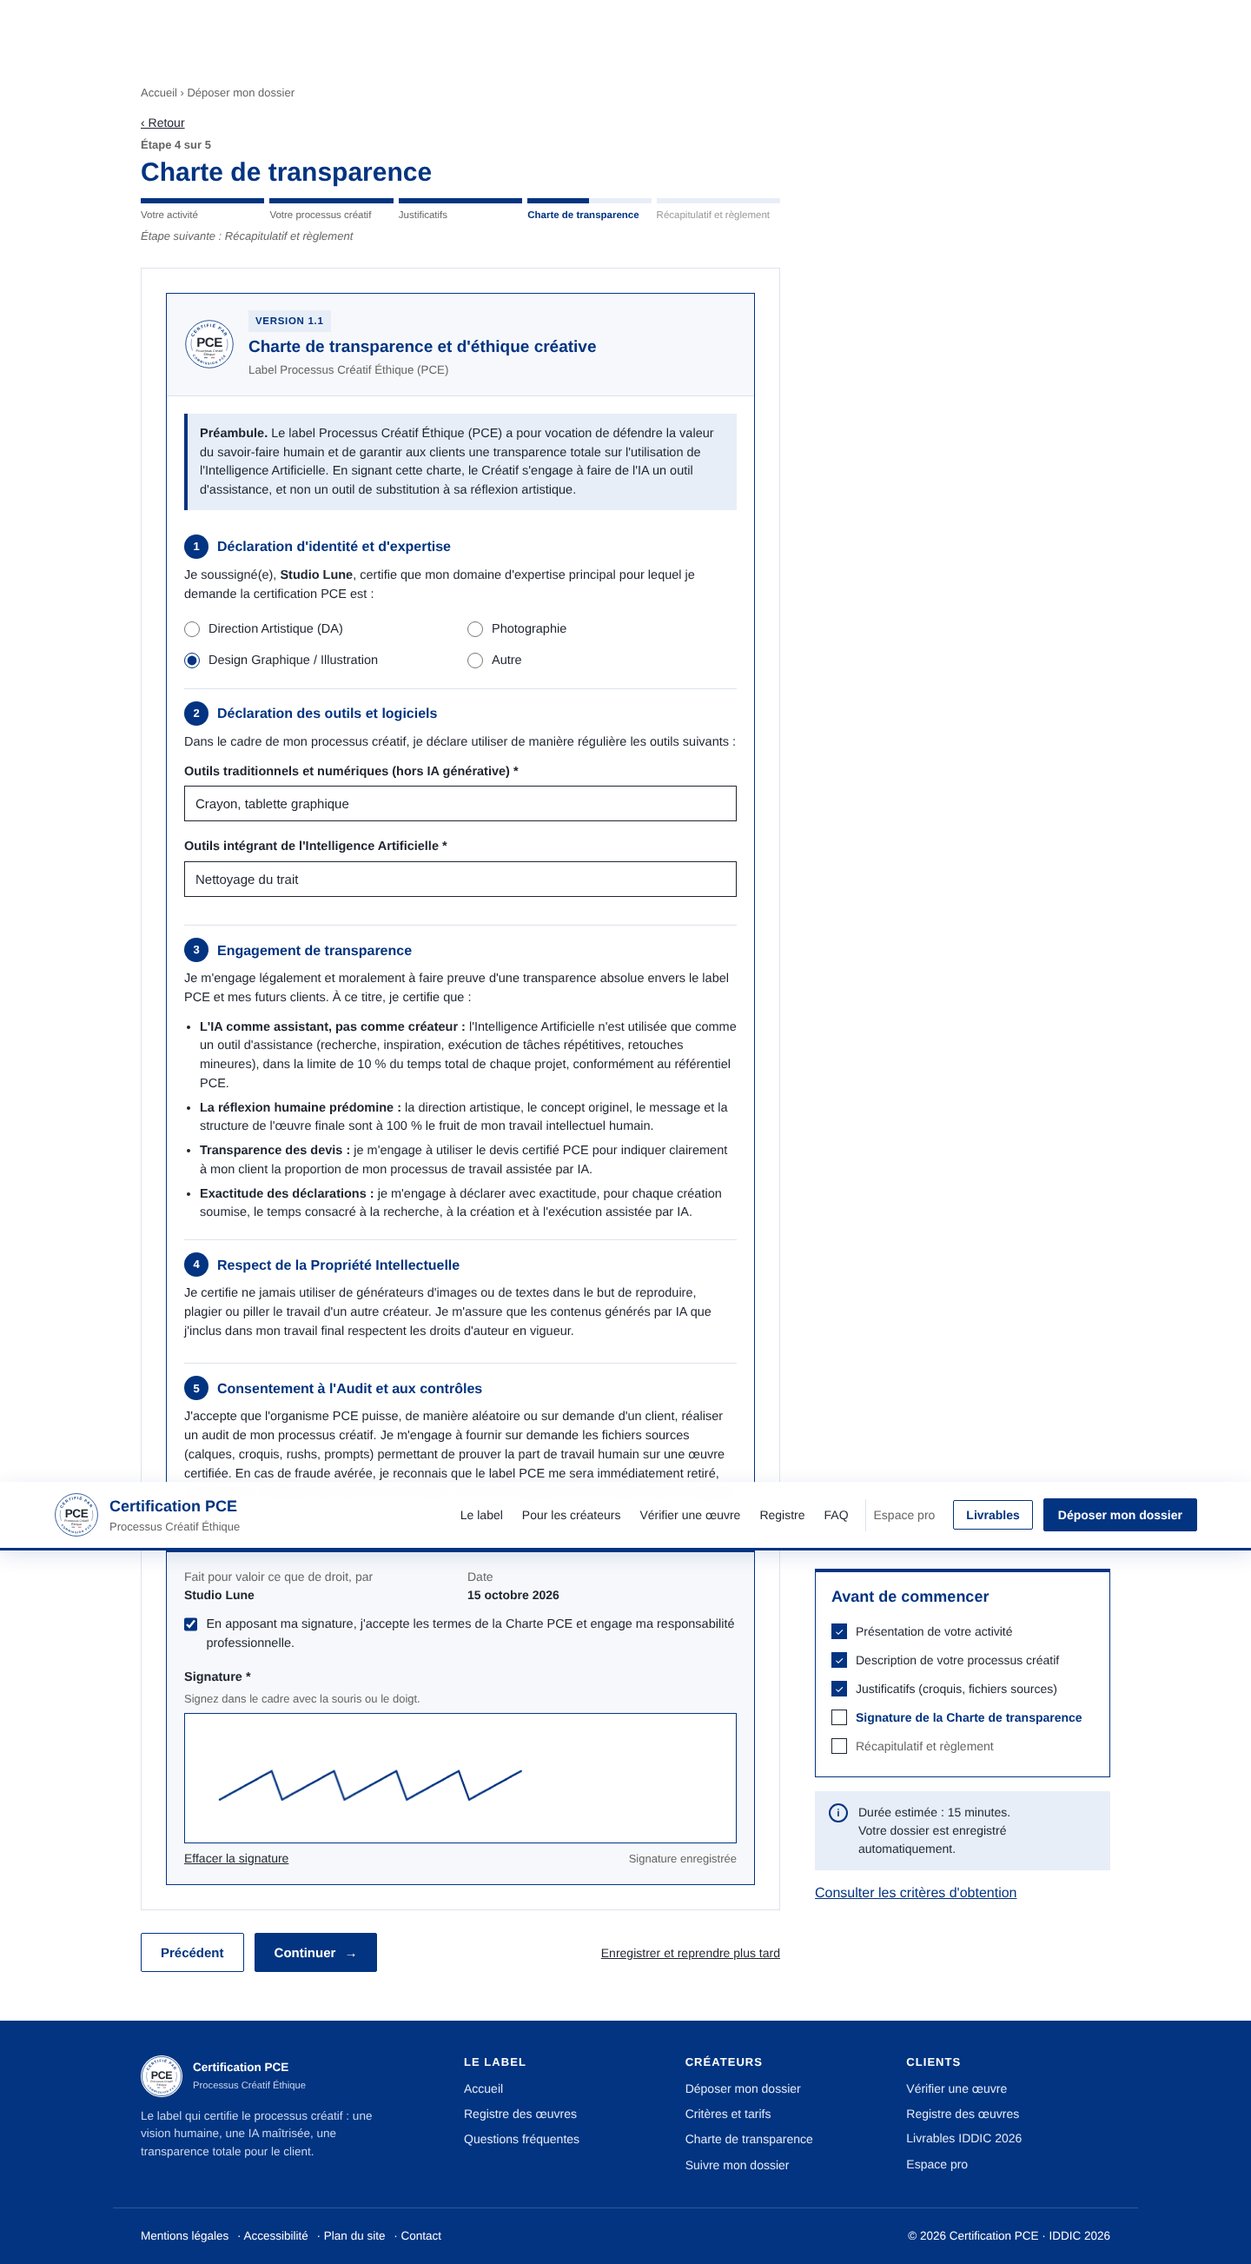
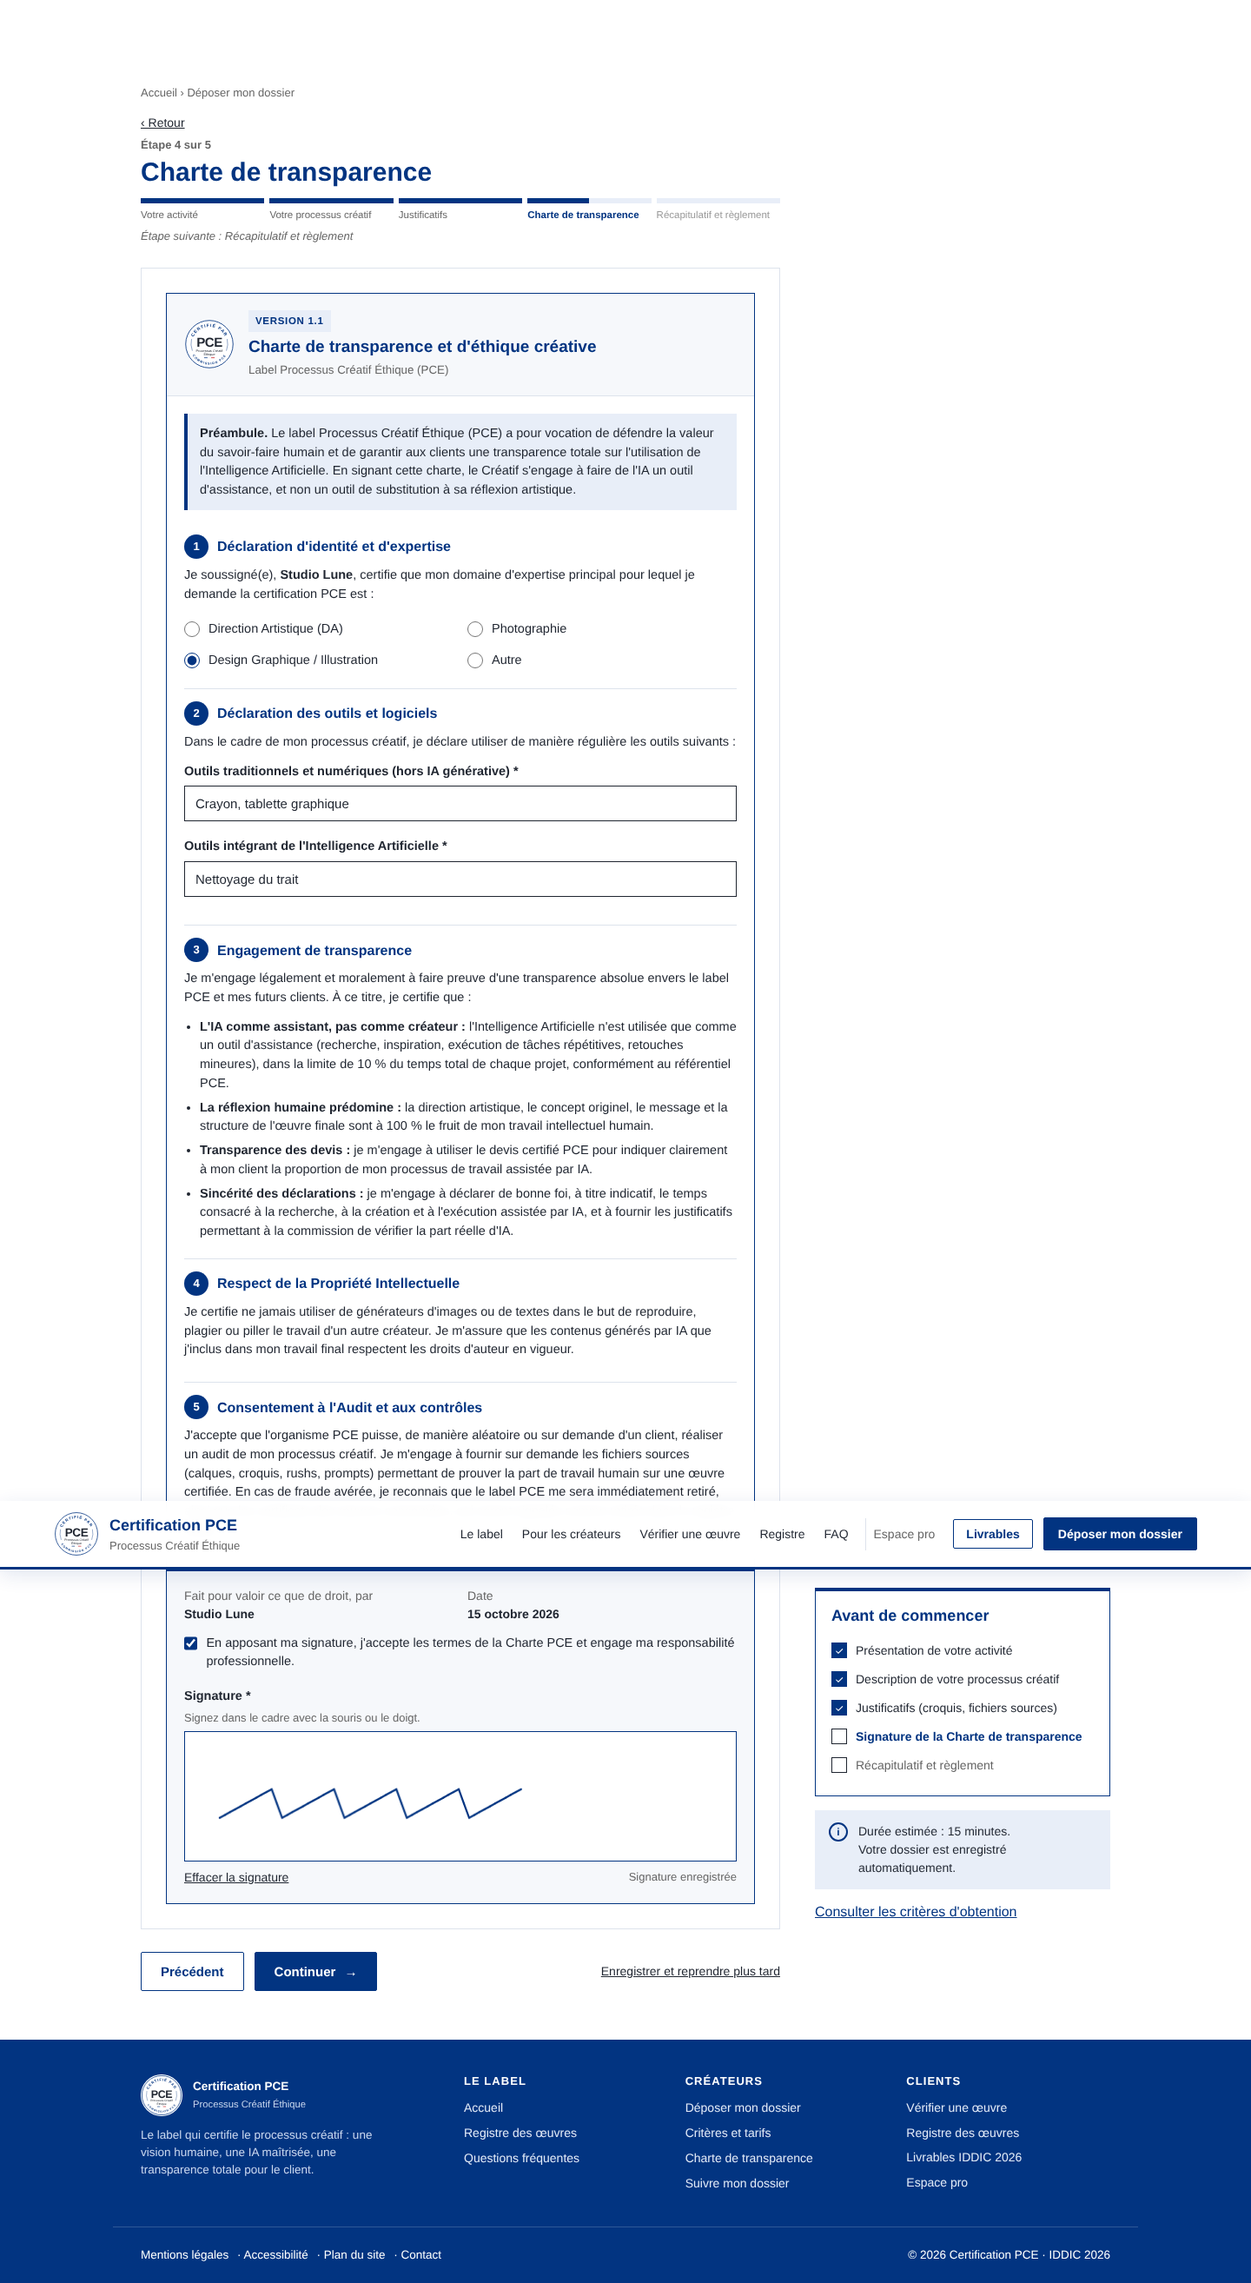
Heures déclarées indicatives : plus de détection automatique d'IA, vérification par la commission
Claude-Session: https://claude.ai/code/session_013D7uRxLFz2dHeA6eheZQbo

diff --git a/livrable/Prototype_PCE.html b/livrable/Prototype_PCE.html
@@ -182,6 +182,7 @@ input[type=radio], input[type=checkbox] { width: 18px; height: 18px; accent-colo
 .verdict { margin-top: 12px; padding: 12px 14px; font-size: 14px; border-left: 4px solid; transition: background .3s, border-color .3s; }
 .verdict.ok { background: var(--vert-p); border-color: var(--vert); color: #0E4F27; }
 .verdict.ko { background: var(--rouge-p); border-color: var(--rouge); color: #8A1014; }
+.verdict.info { background: var(--pale); border-color: var(--marine); color: var(--encre); }
 table.devis { width: 100%; border-collapse: collapse; font-size: 14.5px; margin-top: 8px; }
 table.devis td, table.devis th { padding: 10px 6px; border-bottom: 1px solid var(--trait-c); text-align: left; }
 table.devis td:last-child, table.devis th:last-child { text-align: right; }
@@ -2865,7 +2866,7 @@ function seedBase() {
       formule: r() < .7 ? "abonnement" : "unite", seed: 1 + Math.floor(r() * 100000), img: null,
       ...((tl, nb) => ({ taille: tl, creationsAn: nb, prixAbo: estimerAbo(tl, nb, rech + crea + ia).mensuel ?? null }))(["Indépendant", "Indépendant", "Indépendant", "Studio (2 à 10 personnes)", "Agence (11 à 50 personnes)"][Math.floor(r() * 5)], 3 + Math.floor(r() * 40)),
       justificatifs: ["croquis-preparatoires.pdf", "fichier-source.psd"].slice(0, 1 + Math.floor(r() * 2)),
-      motif: st === "refusee" ? "Part d'exécution par IA supérieure au seuil du référentiel." : "",
+      motif: st === "refusee" ? "Après examen des justificatifs, la part d'exécution par IA dépasse le seuil du référentiel." : "",
       charte: { expertise: expertiseDefaut(type), expertiseAutre: type === "Tatouage" ? "Tatouage" : "", outilsTrad: "Crayon, carnet de croquis, tablette graphique, logiciel de retouche", outilsIA: iaMode === "aucun" ? "Aucun" : "Assistant de recherche, retouche assistée", signature: null, signeLe: new Date(2026, mois, jour).toISOString() },
     });
   }
@@ -2991,7 +2992,7 @@ function vueCreateurs() {
     <div class="grille4">
       <div class="carte rev"><h3><span class="pastille">1</span>Processus documenté</h3><p>Recherches, croquis, versions successives, choix de style.</p></div>
       <div class="carte rev"><h3><span class="pastille">2</span>Conception humaine</h3><p>L'intention, la composition et les choix artistiques sont les vôtres.</p></div>
-      <div class="carte rev"><h3><span class="pastille">3</span>IA en exécution</h3><p>L'exécution assistée par IA représente ${SEUIL} % maximum du temps du projet.</p></div>
+      <div class="carte rev"><h3><span class="pastille">3</span>IA en exécution</h3><p>L'exécution assistée par IA représente ${SEUIL} % maximum du projet. La commission le vérifie sur vos justificatifs.</p></div>
       <div class="carte rev"><h3><span class="pastille">4</span>Justificatifs</h3><p>Croquis, fichiers sources ou étapes intermédiaires, au format PDF, JPG ou PNG.</p></div>
     </div>
     <h2 style="margin-top:44px">Tarifs</h2>
@@ -3041,6 +3042,7 @@ function vueFaq() {
     ["Combien coûte la certification ?", "L'abonnement est sur mesure, à partir de 9 € HT par mois pour un indépendant. Son tarif dépend du nombre de créations à certifier, de la taille de la structure, de l'ampleur du processus créatif et de l'étude du dossier. La certification à l'unité dépend de l'œuvre, de 25 € à 149 € HT. La vérification est gratuite."],
     ["Comment un acheteur vérifie-t-il une œuvre ?", "En scannant le QR code apposé sur l'œuvre ou en saisissant le numéro PCE sur la page Vérifier une certification."],
     ["Pourquoi signer la Charte de transparence ?", "La charte engage le créateur sur l'usage de l'IA, la transparence des devis, le respect de la propriété intellectuelle et l'acceptation des audits. Sa signature est obligatoire pour déposer un dossier."],
+    ["Les heures déclarées suffisent-elles à obtenir le label ?", "Non. Les heures sont indicatives : elles servent au devis client et à l'estimation de l'abonnement. La part réelle d'IA est vérifiée par la commission sur les justificatifs (croquis, fichiers sources, calques, prompts)."],
     ["Que se passe-t-il en cas de refus ?", "Le motif vous est communiqué. Vous pouvez compléter votre dossier et le déposer à nouveau."],
   ];
   return `<div class="conteneur etroit">${ariane("FAQ")}<h1>Questions fréquentes</h1>${q.map(([a, b]) => `<details class="rev"><summary>${a}</summary><p>${b}</p></details>`).join("")}<div style="height:56px"></div></div>`;
@@ -3199,7 +3201,7 @@ function etape2(b) {
   return champ("titre", "Titre de l'œuvre *", `<input id="titre" type="text" value="${esc(b.titre)}">`)
     + champ("description", "Décrivez votre processus, de l'idée au rendu *", `<textarea id="description" placeholder="Ex : recherches, croquis, choix de style, versions successives, outils utilisés…">${esc(b.description)}</textarea>`, "", "Décrivez votre processus en 40 caractères minimum.")
     + `<div class="champ"><span class="lab">Recours à l'IA dans votre travail *</span><div class="radios">${Object.entries(IA_LIB).map(([k, v]) => `<label><input type="radio" name="iaMode" value="${k}" ${b.iaMode === k ? "checked" : ""}> ${v}</label>`).join("")}</div></div>
-    <div class="champ"><span class="lab">Temps consacré au projet (heures)</span>
+    <div class="champ"><span class="lab">Temps consacré au projet (heures, à titre indicatif)</span><span class="aide">Ces heures servent au devis client et à l'estimation de l'abonnement. Elles ne déterminent pas la certification : la part réelle d'IA est vérifiée par la commission sur vos justificatifs.</span>
       <div class="ligne-h"><label for="recherche">Recherche et intention</label><input id="recherche" type="number" min="0" value="${b.recherche}"></div>
       <div class="ligne-h"><label for="creation">Création et direction artistique</label><input id="creation" type="number" min="0" value="${b.creation}"></div>
       <div class="ligne-h" id="l-ia"><label for="ia">Exécution assistée par IA</label><input id="ia" type="number" min="0" value="${b.ia}"></div>
@@ -3226,7 +3228,7 @@ const ARTICLES_3_5 = `
     <ul><li><b>L'IA comme assistant, pas comme créateur :</b> l'Intelligence Artificielle n'est utilisée que comme un outil d'assistance (recherche, inspiration, exécution de tâches répétitives, retouches mineures), dans la limite de ${SEUIL} % du temps total de chaque projet, conformément au référentiel PCE.</li>
     <li><b>La réflexion humaine prédomine :</b> la direction artistique, le concept originel, le message et la structure de l'œuvre finale sont à 100 % le fruit de mon travail intellectuel humain.</li>
     <li><b>Transparence des devis :</b> je m'engage à utiliser le devis certifié PCE pour indiquer clairement à mon client la proportion de mon processus de travail assistée par IA.</li>
-    <li><b>Exactitude des déclarations :</b> je m'engage à déclarer avec exactitude, pour chaque création soumise, le temps consacré à la recherche, à la création et à l'exécution assistée par IA.</li></ul></div>
+    <li><b>Sincérité des déclarations :</b> je m'engage à déclarer de bonne foi, à titre indicatif, le temps consacré à la recherche, à la création et à l'exécution assistée par IA, et à fournir les justificatifs permettant à la commission de vérifier la part réelle d'IA.</li></ul></div>
   <div class="article"><h3><span class="pastille">4</span>Respect de la Propriété Intellectuelle</h3><p>Je certifie ne jamais utiliser de générateurs d'images ou de textes dans le but de reproduire, plagier ou piller le travail d'un autre créateur. Je m'assure que les contenus générés par IA que j'inclus dans mon travail final respectent les droits d'auteur en vigueur.</p></div>
   <div class="article" style="border:none"><h3><span class="pastille">5</span>Consentement à l'Audit et aux contrôles</h3><p>J'accepte que l'organisme PCE puisse, de manière aléatoire ou sur demande d'un client, réaliser un audit de mon processus créatif. Je m'engage à fournir sur demande les fichiers sources (calques, croquis, rushs, prompts) permettant de prouver la part de travail humain sur une œuvre certifiée. En cas de fraude avérée, je reconnais que le label PCE me sera immédiatement retiré, ainsi que les certificats des œuvres concernées, qui seront signalés comme retirés dans le registre public.</p></div>`;
 const PREAMBULE = "Le label Processus Créatif Éthique (PCE) a pour vocation de défendre la valeur du savoir-faire humain et de garantir aux clients une transparence totale sur l'utilisation de l'Intelligence Artificielle. En signant cette charte, le Créatif s'engage à faire de l'IA un outil d'assistance, et non un outil de substitution à sa réflexion artistique.";
@@ -3308,9 +3310,9 @@ function etape4(b) {
     ${b.img ? `<div class="apercu"><img src="${b.img}" alt=""><div><b>${esc(b.imgNom || "Œuvre finale")}</b><br><span class="muted petit-texte">Recevra le sceau PCE et un QR code.</span></div></div>` : ""}`;
 }
 function majDosage(b) {
-  const z = $("#dos"); if (!z) return; const ia = pctIA(b), ok = ia <= SEUIL;
+  const z = $("#dos"); if (!z) return; const ia = pctIA(b);
   z.innerHTML = `<div class="barre"><span class="h" style="width:${100 - ia}%"></span><span class="ia" style="width:${ia}%"></span></div><div class="leg"><span>Humain ${100 - ia} %</span><span>Exécution IA ${ia} %</span></div>
-    <div class="verdict ${ok ? "ok" : "ko"}">${ok ? `Éligible : l'exécution assistée par IA représente ${ia} % du projet, sous le seuil de ${SEUIL} %.` : `Non éligible : l'exécution assistée par IA représente ${ia} % du projet, au-delà du seuil de ${SEUIL} %.`}</div>`;
+    <div class="verdict info">Répartition déclarée, indicative. La conformité au référentiel (IA en exécution, ${SEUIL} % maximum) est vérifiée par la commission sur vos justificatifs.</div>`;
 }
 function lireFichier(f) { return new Promise(ok => { const r = new FileReader(); r.onload = () => ok(r.result); r.readAsDataURL(f); }); }
 async function reduireImage(src, max = 1400) {
@@ -3357,7 +3359,7 @@ function initDepot() {
   const valider = () => {
     lire(); let ok = true; const err = (c, cond) => { const z = $(`[data-c="${c}"]`); if (z) z.classList.toggle("erreur", !cond); if (!cond) ok = false; };
     if (e === 0) { err("createur", b.createur.trim()); err("email", /^[^@\s]+@[^@\s]+\.[^@\s]+$/.test(b.email)); err("creationsAn", +b.creationsAn >= 1); }
-    if (e === 1) { err("titre", b.titre.trim()); err("description", b.description.trim().length >= 40); if (pctIA(b) > SEUIL) { ok = false; toast(`L'exécution assistée par IA dépasse ${SEUIL} % du projet.`); } }
+    if (e === 1) { err("titre", b.titre.trim()); err("description", b.description.trim().length >= 40); }
     if (e === 2) { err("img", b.img); err("just", b.justificatifs.length); }
     if (e === 3) { err("expertise", b.expertise && (b.expertise !== "Autre" || b.expertiseAutre.trim())); err("outilsTrad", b.outilsTrad.trim()); err("outilsIA", b.outilsIA.trim()); err("charteOk", b.charteOk); err("signature", b.signature); }
     if (!ok) { const p = $(".erreur"); if (p) { p.scrollIntoView({ behavior: "smooth", block: "center" }); const i = $("input, textarea, select", p); if (i) i.focus({ preventScroll: true }); } }
@@ -3431,9 +3433,8 @@ function initSuivi(id) {
   if ($("#dl-oeuvre")) $("#dl-oeuvre").onclick = () => oeuvreSignee(o);
   if ($("#avancer")) $("#avancer").onclick = () => {
     const suite = { deposee: "analyse", analyse: "commission", commission: "certifiee" }[o.statut];
-    const ok = pctIA(o.dosage) <= SEUIL;
-    DB.maj(o.id, suite === "certifiee" ? (ok ? { statut: "certifiee", date: new Date().toISOString() } : { statut: "refusee", motif: "Part d'exécution par IA supérieure au seuil du référentiel." }) : { statut: suite });
-    rendre(); toast(suite === "certifiee" && ok ? "Certification délivrée." : "Dossier mis à jour.");
+    DB.maj(o.id, suite === "certifiee" ? { statut: "certifiee", date: new Date().toISOString() } : { statut: suite });
+    rendre(); toast(suite === "certifiee" ? "Certification délivrée par la commission." : "Dossier mis à jour.");
   };
 }
 
@@ -3529,14 +3530,15 @@ function tiroir(id, apres) {
       <dl class="recap deux"><div><dt>Créateur</dt><dd>${esc(o.createur)}</dd><dt>E-mail</dt><dd>${esc(o.email)}</dd><dt>Ville</dt><dd>${esc(o.ville || "Non renseignée")}</dd></div><div><dt>Type</dt><dd>${esc(o.type)}</dd><dt>Formule</dt><dd>${o.formule === "abonnement" ? "Abonnement · " + (o.prixAbo ? eur(o.prixAbo) + " HT / mois" : "sur devis") : "Unité · " + eur(TYPES[o.type])}</dd><dt>Structure</dt><dd>${esc(o.taille || "Indépendant")} · ${o.creationsAn || "?"} créations par an</dd><dt>Déposé le</dt><dd>${dateFr(o.date)}</dd></div></dl>
       <h4>Processus déclaré</h4><p style="font-size:14.5px">${esc(o.description)}</p>
       <h4>Recours à l'IA</h4><p style="font-size:14.5px">${IA_LIB[o.iaMode]}${o.outils ? " · " + esc(o.outils) : ""}</p>
+      <h4>Heures déclarées (indicatives)</h4>
       <table class="devis"><tr><td>Recherche et intention</td><td>${o.dosage.recherche} h</td></tr><tr><td>Création et direction artistique</td><td>${o.dosage.creation} h</td></tr><tr><td>Exécution assistée par IA</td><td>${o.dosage.ia} h</td></tr></table>
       <div class="dosage"><div class="barre"><span class="h" style="width:${100 - ia}%"></span><span class="ia" style="width:${ia}%"></span></div><div class="leg"><span>Humain ${100 - ia} %</span><span>Exécution IA ${ia} %</span></div>
-      <div class="verdict ${ia <= SEUIL ? "ok" : "ko"}">${ia <= SEUIL ? `Conforme au référentiel (seuil ${SEUIL} %).` : `Au-delà du seuil du référentiel (${SEUIL} %).`}</div></div>
+      <div class="verdict info">Heures déclarées par le créatif, à titre indicatif. À contrôler sur les justificatifs (croquis, fichiers sources, calques, prompts) avant décision.</div></div>
       <h4 style="margin-top:16px">Charte de transparence</h4>
       ${o.charte ? `<div class="signee">${o.charte.signature ? `<img src="${o.charte.signature}" alt="Signature">` : ""}<div><b>Signée le ${dateFr(o.charte.signeLe || o.date)}</b><br><span class="muted">${esc(o.charte.expertise === "Autre" ? o.charte.expertiseAutre : o.charte.expertise)} · Outils IA : ${esc(o.charte.outilsIA)}</span><br><button type="button" class="lien" id="t-ch">Télécharger la charte signée</button></div></div>` : `<div class="res-ko">Charte non signée.</div>`}
       <h4 style="margin-top:16px">Justificatifs</h4><ul class="fichiers">${o.justificatifs.map(n => `<li><span>📄 ${esc(n)}</span><span class="muted">Reçu</span></li>`).join("")}</ul>
       ${o.motif ? `<div class="res-ko" style="margin-top:14px"><b>Motif du refus</b><p style="margin:6px 0 0">${esc(o.motif)}</p></div>` : ""}
-      ${o.statut === "commission" ? `<div class="champ" style="margin-top:16px"><label for="motif">Motif en cas de refus</label><textarea id="motif" style="min-height:70px">${ia > SEUIL ? "Part d'exécution par IA supérieure au seuil du référentiel." : ""}</textarea></div>` : ""}
+      ${o.statut === "commission" ? `<div class="champ" style="margin-top:16px"><label for="motif">Motif en cas de refus</label><textarea id="motif" style="min-height:70px" placeholder="Ex : après examen des justificatifs, la part d'exécution par IA dépasse le seuil du référentiel."></textarea></div>` : ""}
       <div class="pile" style="margin-top:18px">${actions.map(([s, l, c]) => `<button class="btn ${c}" data-s="${s}">${l}</button>`).join("")}${o.statut === "certifiee" ? `<a class="btn sec" href="#/oeuvre/${o.id}">Voir la page publique</a>` : ""}</div>
     </div>`;
   document.body.append(fond, t);

diff --git a/AUDIT.md b/AUDIT.md
@@ -32,6 +32,7 @@ Limites : tests faits dans Chromium (moteur de Chrome et Edge). Firefox et Safar
 | Le BP n'expliquait pas ses chiffres | Onglet Hypothèses ajouté |
 | Charte v1.0 : « Label officiel » avant toute accréditation, tirets longs, pas de lien avec le seuil de 10 % | Charte v1.1 dans le site : « Label Processus Créatif Éthique », seuil de 10 % dans l'article 3, engagement d'exactitude des déclarations, retrait des certificats en cas de fraude (article 5), page publique `#/charte` |
 | Deux rubriques « Pour les clients » et « Vérifier une certification » | Fusionnées en « Vérifier une œuvre » |
+| Le site jugeait l'éligibilité d'après les heures déclarées par le créatif (déclaration invérifiable) | Heures rendues indicatives : plus de blocage ni de verdict automatique. La part réelle d'IA est vérifiée par la commission sur les justificatifs. Charte (article 3), FAQ, critères et pitch alignés |
 
 ## 3. Business plan après correction
 
